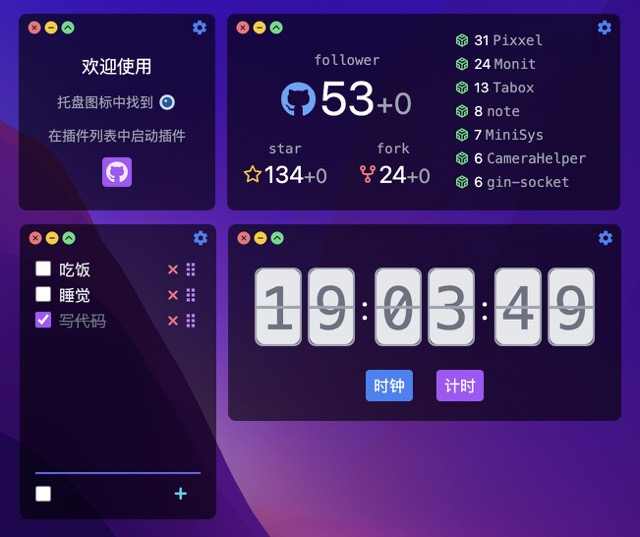
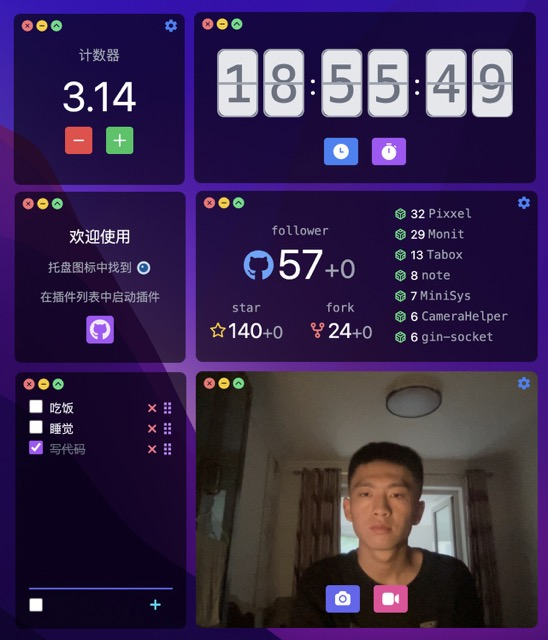
:pencil: 更新文档

diff --git a/app/plugins/count.vue b/app/plugins/count.vue
@@ -1,3 +1,10 @@
+<!--
+ * @Author: fzf404
+ * @Date: 2022-07-15 22:03:19
+ * @LastEditors: fzf404 nmdfzf404@163.com
+ * @LastEditTime: 2022-07-17 18:38:41
+ * @Description: 计数器
+-->
 <template>
   <main>
     <!-- 窗口控制器 -->
@@ -8,7 +15,7 @@
       <aside class="setting setting-sm" v-show="setting">
         <!-- 中心框 -->
         <ul>
-          <!-- 计数值 -->
+          <!-- 数值 -->
           <li>
             <label for="count-number">数值</label>
             <input
@@ -19,7 +26,7 @@
               @keyup.enter="this.setting = false"
             />
           </li>
-          <!-- 步长值 -->
+          <!-- 步长 -->
           <li>
             <label for="step-number">步长</label>
             <input
@@ -36,11 +43,11 @@
           </ol>
         </ul>
       </aside>
-      <!-- 主主体 -->
+      <!-- 主体 -->
       <section class="flex-col-center space-y-3">
         <h1 class="text-gray-400">计数器</h1>
         <p class="text-5xl">{{ count }}</p>
-        <!-- 增加 & 减少按钮 -->
+        <!-- 增加 & 减少 -->
         <p class="space-x-4">
           <button class="btn btn-sq bg-red-500 hover:bg-red-600" @click="reduce"><SubSVG class="w-5" /></button>
           <button class="btn btn-sq bg-green-500 hover:bg-green-600" @click="increase"><AddSVG class="w-5" /></button>
@@ -56,7 +63,7 @@ import Layout from '../layouts/custom.vue'
 import AddSVG from '../assets/count/add.svg'
 import SubSVG from '../assets/count/sub.svg'
 
-// 信息获取
+// 信息存储 & 读取
 const { set, get } = storage('count')
 
 export default {

diff --git a/custom/plugin.js b/custom/plugin.js
@@ -2,7 +2,7 @@
  * @Author: fzf404
  * @Date: 2022-05-25 23:18:50
  * @LastEditors: fzf404 nmdfzf404@163.com
- * @LastEditTime: 2022-07-15 17:03:59
+ * @LastEditTime: 2022-07-17 17:44:19
  * @Description: 插件配置
  */
 
@@ -15,11 +15,11 @@
 
 export const pluginList = [
   { name: 'welcome', size: [1, 1], description: '欢迎' },
+  { name: 'count', size: [1, 1], description: '计数器' },
   { name: 'github', size: [2, 1], description: '监控' },
   { name: 'clock', size: [2, 1], description: '翻牌时钟' },
   { name: 'todo', size: [1, 1.5], description: '待办' },
   // debug 模式下 build 时不会被打包
-  { name: 'count', size: [1, 1], description: '计数器', debug: true },
   { name: 'bilibili', size: [1, 1], description: '监控', debug: true },
   { name: 'music', size: [2, 1], description: '音乐', debug: true },
   { name: 'camera', size: [2, 1.5], description: '相机' },

diff --git a/vue.config.js b/vue.config.js
@@ -2,7 +2,7 @@
  * @Author: fzf404
  * @Date: 2022-06-18 17:15:15
  * @LastEditors: fzf404 nmdfzf404@163.com
- * @LastEditTime: 2022-07-17 18:34:46
+ * @LastEditTime: 2022-07-17 19:27:35
  * @Description: vue-cli 配置
  */
 
@@ -36,14 +36,7 @@ const config = {
         appId: 'top.fzf404.monit', // app id
         artifactName: '${productName}-${version}-${os}-${arch}.${ext}', // 打包命名方式
         // 发布地址
-        publish: [
-          {
-            provider: 'github',
-            owner: 'fzf404',
-            repo: 'Monit',
-            releaseType: 'release', // release or prerelease
-          },
-        ],
+        publish: ['github'],
         win: {
           target: ['nsis', '7z'],
         },

diff --git a/app/plugins/live2d.vue b/app/plugins/live2d.vue
@@ -1,3 +1,10 @@
+<!--
+ * @Author: fzf404
+ * @Date: 2022-07-15 22:55:49
+ * @LastEditors: fzf404 nmdfzf404@163.com
+ * @LastEditTime: 2022-07-17 16:29:21
+ * @Description: live2d 虚拟角色追踪
+-->
 <template>
   <Layout />
   <!-- 页面内容 -->

diff --git a/README.md b/README.md
@@ -2,7 +2,7 @@
  * @Author: fzf404
  * @Date: 2022-06-18 17:15:15
  * @LastEditors: fzf404 nmdfzf404@163.com
- * @LastEditTime: 2022-06-22 16:58:43
+ * @LastEditTime: 2022-07-17 18:40:48
  * @Description: Monit 说明文档
 -->
 
@@ -12,17 +12,19 @@
 
 ## 🎁 安装
 
-前往 [Release](https://github.com/fzf404/Monit/releases) 寻找操作系统对应的安装包
+> 使用 Github Action 自动打包，无需担心安全问题
 
-使用 Github Action 自动打包，无需担心安全问题
+前往 [Release](https://github.com/fzf404/Monit/releases) 寻找操作系统对应的安装包
 
 [国内镜像](https://hub.fastgit.xyz/fzf404/Monit/releases)
 
-- Windows & Linux
+- Windows
 
-  > Windows 支持开机自启
-  >
-  > Linux 开机自启功能可能会失效
+  > 全功能支持：开机自启、自动更新、权限获取等
+
+- Linux
+
+  > 开机自启功能可能会失效
 
 - Mac
 
@@ -36,22 +38,29 @@
 
 > Vue 指 Composition API，Vue2 指 Options API
 
-| 插件名   | 功能              | 技术                  | 状态 |
-| -------- | ----------------- | --------------------- | ---- |
-| welcome  | 欢迎 & 使用指引   | Vue + Tailwind        | ✅   |
-| github   | github 信息监控   | Vue2 + Tailwind       | ✅   |
-| clock    | 时钟翻牌器        | Vue + Scss + Tailwind | ✅   |
-| todo     | 待办事项管理      | Vue + Pug + Tailwind  | ✅   |
-| music    | 网易云音乐播放    |                       | ⛔  |
-| bilibili | bilibili 信息监控 |                       | ⛔  |
+| 插件名   | 功能              | 技术                        | 状态 |
+| -------- | ----------------- | --------------------------- | ---- |
+| welcome  | 使用指引          | Vue Composition API         | ✅   |
+| count    | 计数器            | Vue Options API             | ✅   |
+| github   | github 信息监控   | Vue2 + Axios + Grid         | ✅   |
+| clock    | 时钟翻牌器        | Vue + Scss + Keyframes      | ✅   |
+| todo     | 待办事项管理      | Vue + Pug + Draggable       | ✅   |
+| camera   | 摄像头监控        | Vue + Navigator + Canvas    | ✅   |
+| live2d   | 虚拟角色跟踪      | Vue + MediaPipe + Kalidokit | ⛔  |
+| music    | 网易云音乐播放    |                             | ⛔  |
+| bilibili | bilibili 信息监控 |                             | ⛔  |
 
 ## 📝 开发
 
-Monit 是一个开源的桌面小组件，使用 MIT 协议开源。因此，您可以自由使用项目中的代码。
+Monit 是一个开源的桌面小组件，使用 MIT 协议开源，您可以自由使用项目中的代码。
 
-基于 Electron + Vue 开发，渲染进程使用 JS + Vue，后台进程使用 JS 调用 Electron API。
+基于 Electron + Vue 开发，渲染进程使用 JS + Vue，主进程使用 JS 调用 Electron API。
 
 如果您了解 Vue，并不了解 Electron，使用本项目即可快速开发出自己的桌面小组件。
+
+如果您初学 Vue，对其他技术一无所知，可以通过本项目继续了解 Vue 及 `package.json` 里包含的所有库的基本使用。
+
+如果您对 Vue 和 NodeJS 一无所知，请先去了解相关技术后再来查看本项目，在失望的离开之前别忘了留下一个 star。
 
 ### 🍀 代码结构
 
@@ -62,11 +71,11 @@ Monit 是一个开源的桌面小组件，使用 MIT 协议开源。因此，您
 ```bash
 ├── app # 渲染进程
 │   ├── assets # 静态资源
-│   ├── layout # 布局组件
+│   ├── layouts # 布局组件
 │   ├── plugins # 插件
 │   └── utils # 工具类
-├── common # 通用工具
-│   ├── utils # 公用工具类
+├── custom # 自定义工具
+│   ├── ... # 公用工具类
 │   └── plugin.js # 插件配置
 ├── core # 主进程
 │   ├── event.js # 事件处理
@@ -82,7 +91,7 @@ Monit 是一个开源的桌面小组件，使用 MIT 协议开源。因此，您
 
 ### ✨ 技术
 
-- Electron 16
+- Electron 18
   - 跨平台的桌面应用程序构建工具
   - [官方文档](https://www.electronjs.org/zh/docs/latest)
 - Vue 3
@@ -107,61 +116,112 @@ Monit 是一个开源的桌面小组件，使用 MIT 协议开源。因此，您
    git clone https://github.com/fzf404/Monit.git --depth-1
    ```
 2. 安装项目依赖
-   ```bash
-   # 假如您使用 npm，请安装 pnpm
-   npm i -g pnpm
-   # 使用 yarn 安装依赖
-   pnpm i
-   ```
+
+```bash
+ # 假如您使用 npm，请安装 pnpm
+ npm i -g pnpm
+ # 使用 pnpm 安装依赖
+ pnpm i
+```
+
 3. 编写插件页面 `app/plugins/count.vue`
 
    ```vue
    <template>
      <main>
        <!-- 窗口控制器 -->
-       <Layout />
+       <Layout v-model:setting="setting" />
        <!-- 页面内容 -->
-       <article class="h-screen flex-col-center space-y-3">
-         <h1 class="text-gray-400">计数器</h1>
-         <p class="pb-2 text-5xl">{{ count }}</p>
-         <!-- 增加 & 减少按钮 -->
-         <p class="space-x-4">
-           <button class="btn bg-red-500 hover:bg-red-600" @click="reduce">-1</button>
-           <button class="btn bg-green-500 hover:bg-green-600" @click="increase">+1</button>
-         </p>
+       <article class="h-screen">
+         <!-- 设置 -->
+         <aside class="setting setting-sm" v-show="setting">
+           <!-- 中心框 -->
+           <ul>
+             <!-- 数值 -->
+             <li>
+               <label for="count-number">数值</label>
+               <input
+                 id="count-number"
+                 type="number"
+                 oninput="if(value.length > 5) value = value.slice(0, 5)"
+                 v-model.lazy="count"
+                 @keyup.enter="this.setting = false"
+               />
+             </li>
+             <!-- 步长 -->
+             <li>
+               <label for="step-number">步长</label>
+               <input
+                 id="step-number"
+                 type="number"
+                 oninput="if(value.length > 3) value = value.slice(0, 3)"
+                 v-model.lazy="step"
+                 @keyup.enter="this.setting = false"
+               />
+             </li>
+             <!-- 保存 -->
+             <ol>
+               <button @click="this.setting = false">OK</button>
+             </ol>
+           </ul>
+         </aside>
+         <!-- 主体 -->
+         <section class="flex-col-center space-y-3">
+           <h1 class="text-gray-400">计数器</h1>
+           <p class="text-5xl">{{ count }}</p>
+           <!-- 增加 & 减少 -->
+           <p class="space-x-4">
+             <button class="btn btn-sq bg-red-500 hover:bg-red-600" @click="reduce"><SubSVG class="w-5" /></button>
+             <button class="btn btn-sq bg-green-500 hover:bg-green-600" @click="increase">
+               <AddSVG class="w-5" />
+             </button>
+           </p>
+         </section>
        </article>
      </main>
    </template>
 
    <script>
    import { storage } from '../../custom/storage'
-   import Layout from '../layout/custom.vue'
+   import Layout from '../layouts/custom.vue'
+   import AddSVG from '../assets/count/add.svg'
+   import SubSVG from '../assets/count/sub.svg'
 
-   // 信息获取
+   // 信息存储 & 读取
    const { set, get } = storage('count')
 
    export default {
      components: {
        Layout,
+       AddSVG,
+       SubSVG,
      },
      data() {
        return {
+         setting: false, // 设置是否开启
          // 读取 count 值
-         count: get('count', 0),
+         count: get('count', 0), // 数字
+         // 读取 step 值
+         step: get('step', 1), // 步长
        }
      },
      methods: {
        increase() {
-         this.count += 1
+         // 浮点数运算精度
+         this.count = Number((this.count + this.step).toFixed(2))
        },
        reduce() {
-         this.count -= 1
+         // 浮点数运算精度
+         this.count = Number((this.count - this.step).toFixed(2))
        },
      },
      // 监听 count 变化
      watch: {
        count() {
          set('count', this.count)
+       },
+       setp() {
+         set('step', this.step)
        },
      },
    }
@@ -200,18 +260,16 @@ Monit 是一个开源的桌面小组件，使用 MIT 协议开源。因此，您
    # 构建成功后即可在 dist_electron 找到安装包
    ```
 
-### 🍻 更多
+### 🍻 API 说明
 
-1.  Axios 封装
-2.  Store 封装
-3.  Notice 封装
+1. 通用布局：`./app/layouts/custom.vue`
+2. Axios 封装：`./custom/request.js`
+3. Store 封装：`./custom/storage.js`
+4. Notice 封装：`./custom/ipc.js`
 
 > 待续...
->
-> 消息通知、HTTP 请求、数据存储等功能请阅读 github 插件源码。
 
 ### 🔥 提交代码
 
-1. 请使用 prettier 进行代码格式化
-
-2. 待补充...
+1. 执行 commit 时会自动进行代码格式化
+2. 提交代码到 beta 分支
